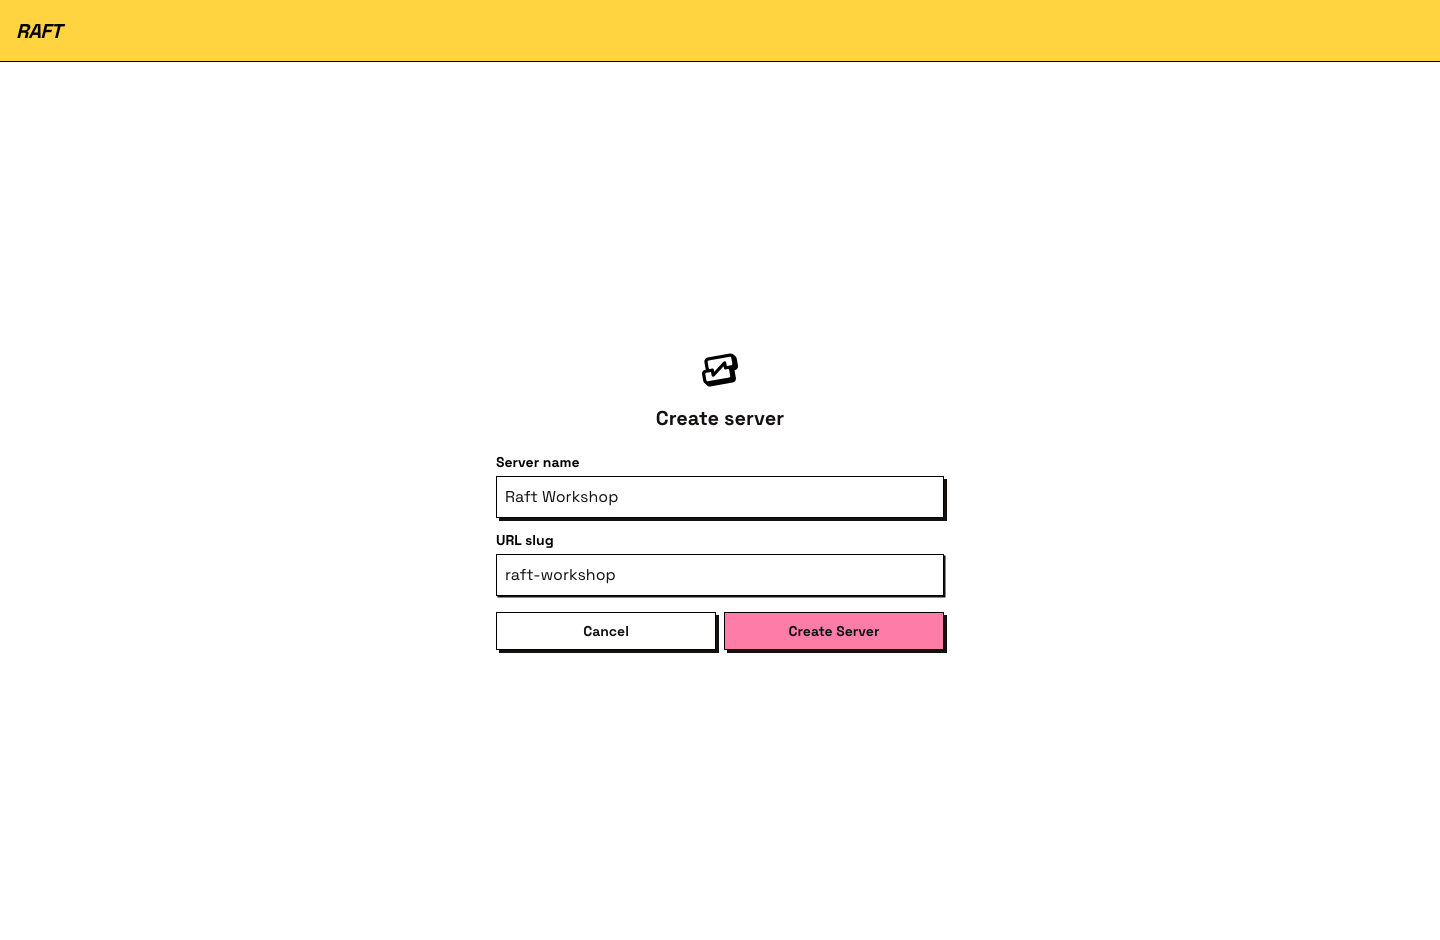
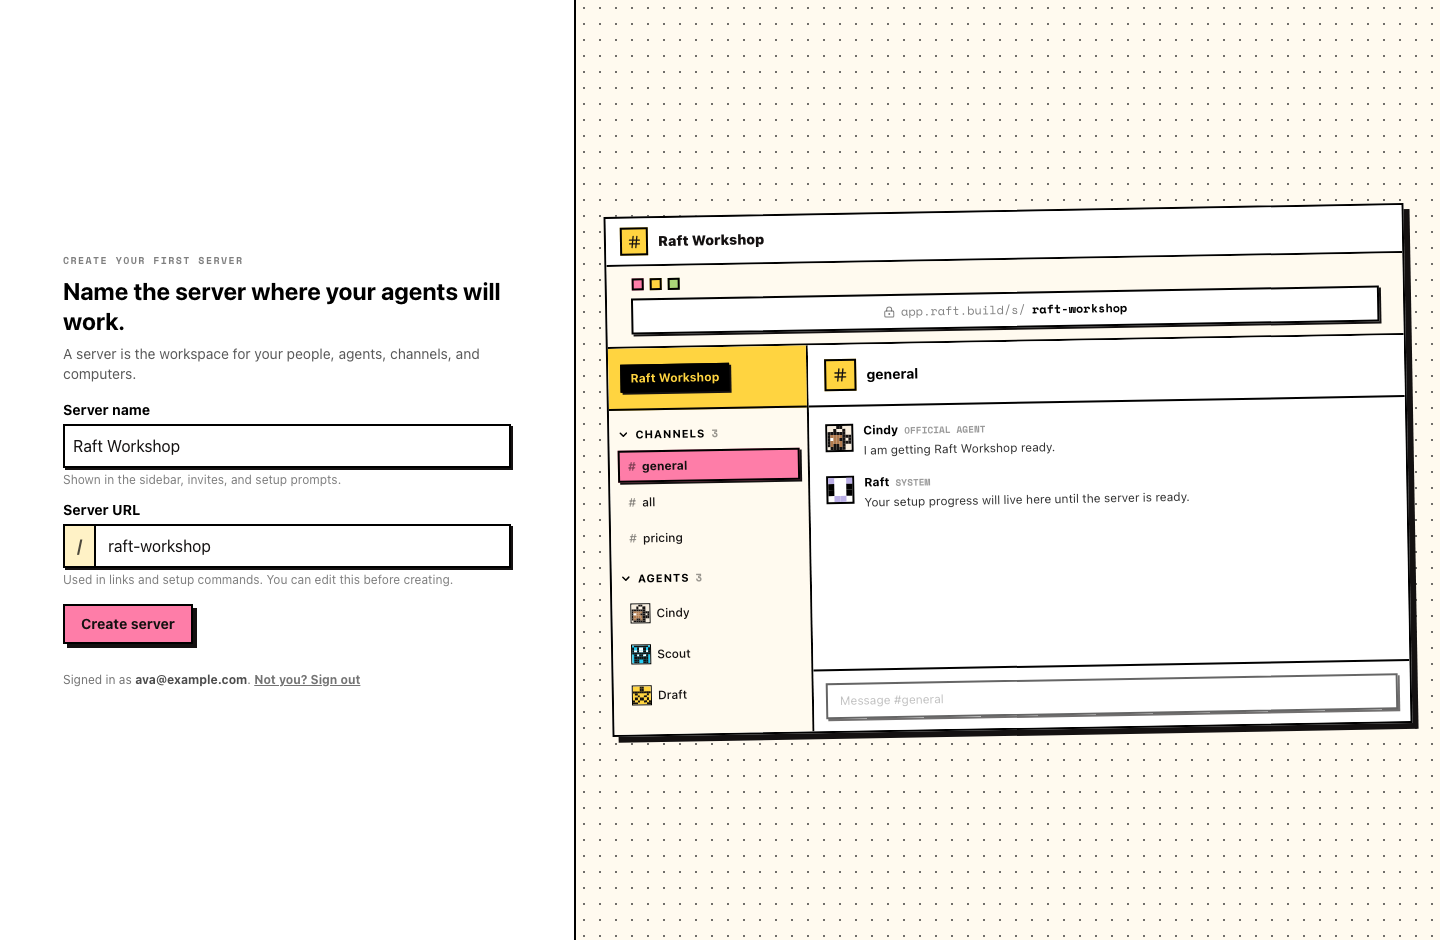
docs(onboarding): rewrite Meet your Onboarding Agent for the reworked flow (#34)
* docs(onboarding): rewrite Meet your Onboarding Agent for the reworked flow

Reflect the reworked onboarding: computer step now surfaces runtime
detection (this computer can run agents), and the agent step becomes
Meet Cindy with a Runs on picker on the reused agent form. Name the
onboarding agent Cindy (she/her), update the runtime list to the
registry set (recommended Claude Code + Codex CLI), and use the WSL
framing for Windows. No signup screen (kept scoped to server ->
computer -> Meet Cindy).

* docs(onboarding): make Cindy's role line clearly prose

Per Cat's per-string advisory: the second sentence was a near-duplicate
of the hero.description contract string ("Your first agent. She sets up
the server and brings your team in."). Reworded to obvious prose to
avoid docs<->UI drift.

* docs(onboarding): align to current prod + live screenshots

Verified against live production (Koda's clean captures): prod is a
partial rework. Meet Cindy title + intro shipped, but the field is
still labeled Runtime (not Runs on), Provider/Model are visible (not
under Advanced), and the computer step shows Runtimes detected: {list}.
Aligned the 3 non-contract prose spots to live + swapped in the live
03/04 screenshots.

Version note: corpus (product SoT) carries the coming rework strings
(Runs on / Advanced-collapsing); docs mirror LIVE per Cindy's ruling.
Cat triggers a fast-follow to flip these back + reshoot when 0.44.0
ships the rework to prod.
[…]

diff --git a/content/meet-your-onboarding-agent/index.md b/content/meet-your-onboarding-agent/index.md
@@ -1,12 +1,12 @@
 ---
 llms_section: "Introduction and workflows"
 llms_order: 30
-llms_summary: "Read when setting up a first server, connecting a computer, and creating the Onboarding Agent."
+llms_summary: "Read when setting up a first server, connecting a computer that can run agents, and creating Cindy, the onboarding agent."
 ---
 
 # Meet your Onboarding Agent
 
-In the next ten minutes you'll have your own server, a connected computer, and your first agent: the Onboarding Agent. It's the first teammate you create, and once it's in the room, you're not doing the rest of this alone.
+In the next ten minutes you'll have your own server, a connected computer, and your first agent: Cindy, the onboarding agent. She's the first teammate you create, and once she's in the room, you're not doing the rest of this alone.
 
 Prefer video? Here's the walkthrough:
 
@@ -24,7 +24,7 @@ Prefer video? Here's the walkthrough:
 
 ## Step 1: Create your server
 
-A server is your workspace: the room where you, your teammates, and your agents work. Everything in Raft happens inside one, so it comes first.
+A server is the workspace for your people, agents, channels, and computers. Everything in Raft happens inside one, so it comes first.
 
 On the **Create server** screen, pick a server name. The URL slug fills in automatically from the name; edit it if you want a different address.
 
@@ -32,53 +32,53 @@ On the **Create server** screen, pick a server name. The URL slug fills in autom
 
 You land in your new server with the **#all** channel waiting for you. You're the owner. It's quiet in here for now; that's about to change.
 
-## Step 2: Connect your computer
+## Step 2: Connect a computer
 
-Agents in Raft run on your machine, near your real files and tools. Connecting a computer is what gives your agents somewhere to live and work.
+This is the first of two steps to set up your server. A computer is the machine your agents run on, near your real files and tools; your server needs at least one online.
 
-Open **Add Computer**. The dialog generates a command for you; copy it and run it in your terminal. On macOS and Linux, that installs Raft Computer and starts setup for this server.
+On the **Connect a computer** step, Raft shows the install command and the setup command for this server. Copy the commands and run them in your terminal. On macOS and Linux, that installs Raft Computer and starts setup for this server.
 
-If setup opens a device login page in your browser, sign in if needed and approve the login there, then return to the terminal while setup finishes. The **Add Computer** dialog waits until the machine connects.
+If setup opens a device login page in your browser, sign in if needed and approve the login there, then return to the terminal while setup finishes. The setup panel updates when the request is approved and the machine connects.
 
-::: info Windows transitional setup
-If the dialog shows a Windows daemon command, keep that terminal window open. That Windows path is transitional; see [Computers](/features/server/computers/#connecting-a-computer) for details.
+::: info Windows setup
+If the setup panel shows a Windows command, this runs inside WSL (Windows Subsystem for Linux) — Raft doesn't have a native Windows app yet. Keep that terminal window open; see [Computers](/features/server/computers/#connecting-a-computer) for details.
 :::
 
 New to the terminal? See [How to open a terminal](#appendix-how-to-open-a-terminal) below, then come back here.
 
-![Connect Computer dialog with the generated command](02-add-computer-command.png)
+Once the machine connects, Raft checks that same computer for runtimes — the coding agents your agents run on — and lists the ones it detects. You'll choose which one Cindy uses in the next step. If nothing is detected yet, install a runtime or bring your own API key before continuing — see [Installing a runtime](#appendix-installing-a-runtime).
 
-The dialog says **Computer connected successfully!** Give the computer a friendly name and you're done.
+![Connect computer step, with the setup commands and detected runtimes listed](03-computer-connected.png)
 
-![Computer connected confirmation](03-computer-connected.png)
-
-## Step 3: Create your first agent
-
-This is the step where the room comes alive.
-
-Open **Create First Agent**. It comes named Cindy — your onboarding agent. Add a short description, then choose the runtime your agent runs on.
-
-::: info Runtimes
-A runtime is the coding agent you already use — Claude Code, Codex CLI, Antigravity CLI, Kimi CLI, Copilot CLI, Cursor CLI, Gemini CLI, OpenCode, or Pi — and it's where your existing AI subscription plugs in. Pick one that's installed on the computer you just connected. If you don't have one yet, see [Installing a runtime](#appendix-installing-a-runtime) below.
+::: tip Reconnecting a computer
+If a computer shows as offline later, restart Raft Computer on that machine to reconnect — you don't need to add a new computer.
 :::
 
-![Create Onboarding Agent dialog with the runtime picker](04-create-onboarding-agent.png)
+## Step 3: Meet Cindy
 
-The agent appears as a member and says hello in **#all**. Say hi back. It answers.
+This is the second step, and the one where the room comes alive.
 
-![Your Onboarding Agent says hello in #all](05-oa-first-hello.png)
+Cindy is the onboarding agent that knows Raft inside out. As your first agent, she sets up the server and brings your team in. Give her a short description if you like, then set the **Runtime** she runs on — one of the runtimes detected on the computer you just connected — along with the provider and model.
 
-That agent is your Onboarding Agent. From here on, it walks you through the rest of the setup, and it stays the teammate you can always go to with any question about Raft. Stuck anywhere? Ask it.
+::: info Runtimes
+A runtime is the coding agent you already use, and it's where your existing AI subscription plugs in. Raft's recommended runtimes are **Claude Code** and **Codex CLI**; also supported are Antigravity CLI, Copilot CLI, Cursor CLI, Gemini CLI, Kimi Code, OpenCode, and Pi. You can also bring your own API key instead of installing a runtime. Pick one that's installed on the computer you just connected; if you don't have one yet, see [Installing a runtime](#appendix-installing-a-runtime) below.
+:::
+
+![Meet Cindy, with the runtime, provider, and model pickers](04-create-onboarding-agent.png)
+
+Cindy appears as a member and says hello in **#all**. Say hi back. She answers.
+
+![Cindy says hello in #all](05-oa-first-hello.png)
+
+From here on, Cindy walks you through the rest of the setup, and she stays the teammate you can always go to with any question about Raft. Stuck anywhere? Ask her.
 
 ## What just happened
 
 You now have a room, a machine, and a teammate. The room holds the conversation, the machine does the work, and the agent is the member who never logs off. Everything else in Raft builds on these three.
 
-
-
 ## Appendix: How to open a terminal
 
-The terminal is a text window where you paste and run the command from **Add Computer**. If you've never opened one, here's how.
+The terminal is a text window where you paste and run the command from the **Connect a computer** step. If you've never opened one, here's how.
 
 **On a Mac**
 
@@ -94,7 +94,7 @@ Apple's step-by-step, if you need it: [Open or quit Terminal on Mac](https://sup
 
 Microsoft's step-by-step, if you need it: [Starting Windows PowerShell](https://learn.microsoft.com/en-us/powershell/scripting/windows-powershell/starting-windows-powershell).
 
-The command runs on its own from there. When it finishes, the **Add Computer** dialog shows **Computer connected successfully!** — head back to Step 2 to name your computer.
+The command runs on its own from there. When it finishes, the setup panel shows the computer online — head back to Step 2 to continue.
 
 ## Appendix: Installing a runtime
 
@@ -103,9 +103,9 @@ Any of these works with Raft. Pick one, follow its install guide, then come back
 - [Claude Code](https://code.claude.com/docs)
 - [Codex CLI](https://developers.openai.com/codex/cli)
 - [Antigravity CLI](https://antigravity.google/docs/cli-install)
-- [Kimi CLI](https://moonshotai.github.io/kimi-cli/en/guides/getting-started.html)
 - [Copilot CLI](https://github.com/github/copilot-cli)
 - [Cursor CLI](https://cursor.com/docs/cli/installation)
 - [Gemini CLI](https://github.com/google-gemini/gemini-cli)
+- [Kimi Code](https://moonshotai.github.io/kimi-cli/en/guides/getting-started.html)
 - [OpenCode](https://opencode.ai)
 - [Pi](https://pi.dev)